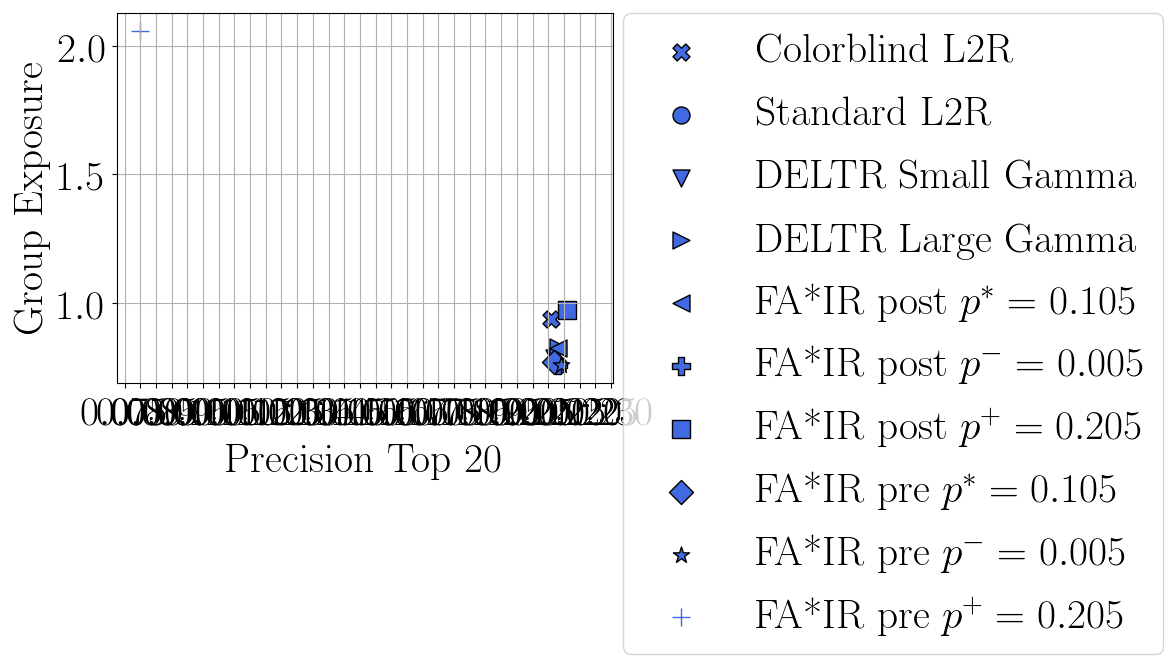
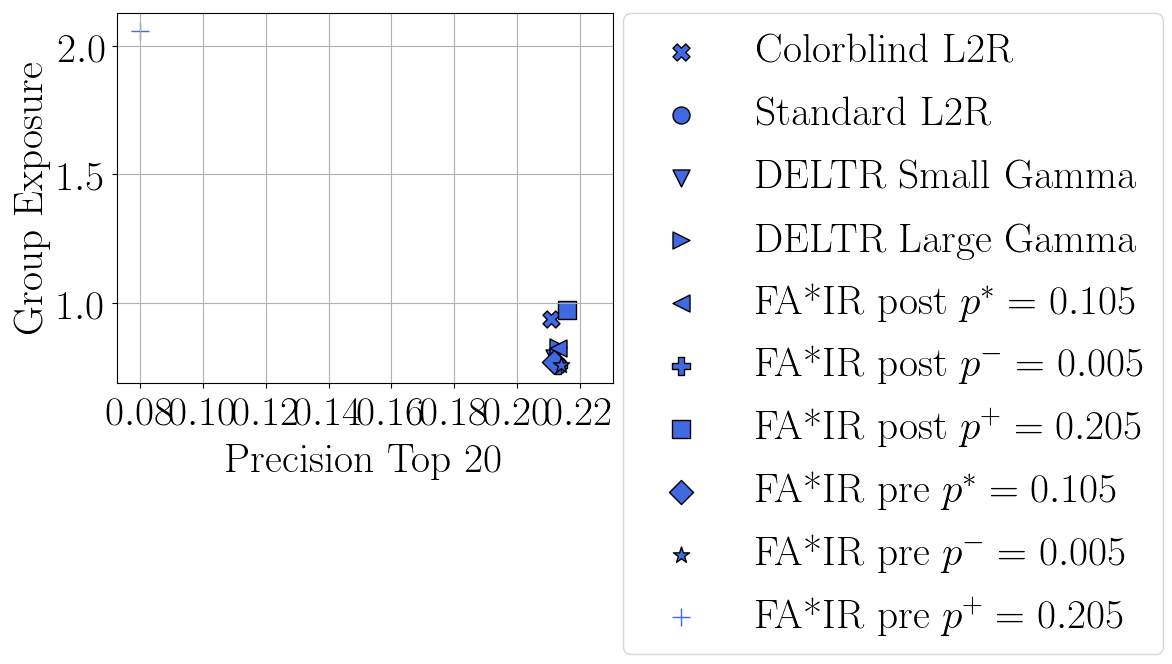
redid scatters again

Changed region(s): [[0.0614, 0.5723, 0.5529, 0.6627]]

diff --git a/src/evaluation/evaluate.py b/src/evaluation/evaluate.py
@@ -2143,7 +2143,7 @@ class DELTR_Evaluator():
         mpl.rcParams['pdf.use14corefonts'] = True
         mpl.rcParams['text.usetex'] = True
 
-        tick_spacing = 0.005
+        tick_spacing = 0.02
         markerlist = ['X', 'o', 'v', '>', '<', 'P', 's', 'D', '*', '+']
 
         # print("Protected")
